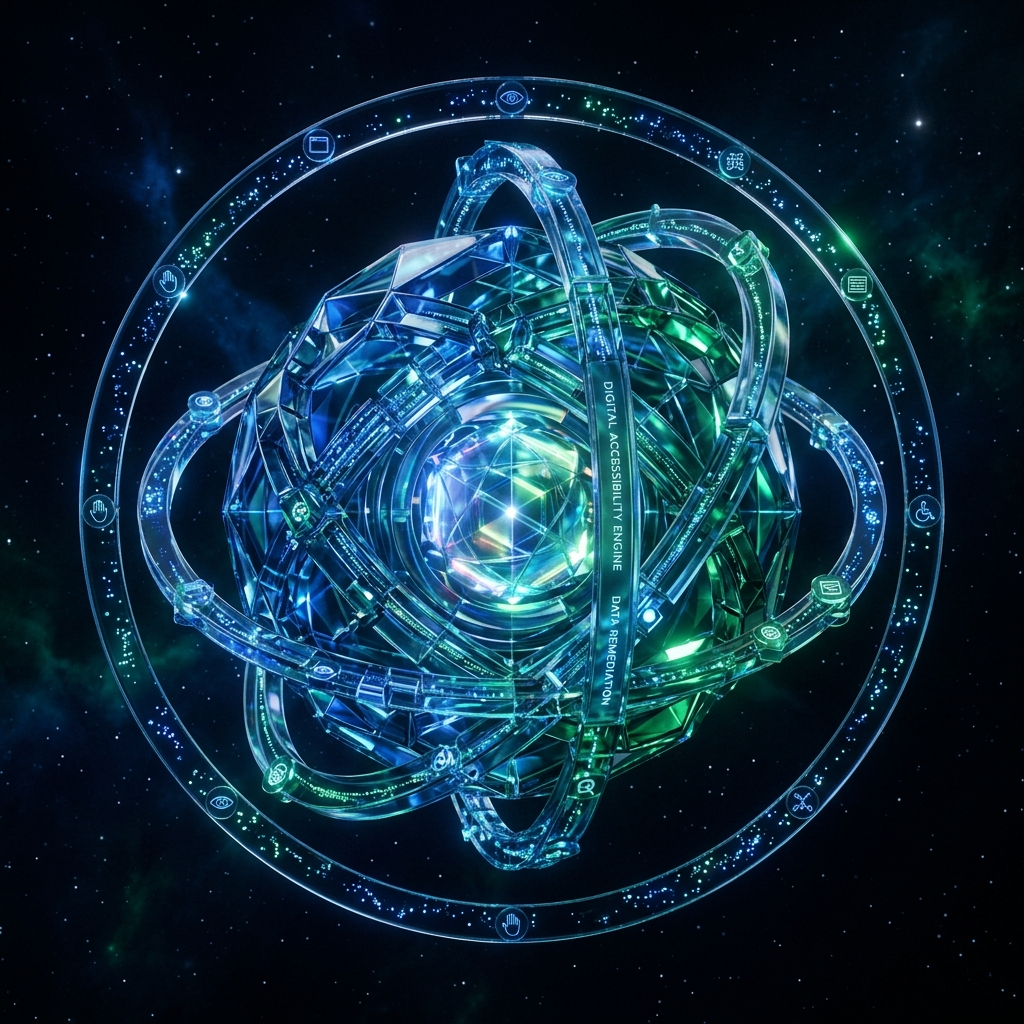
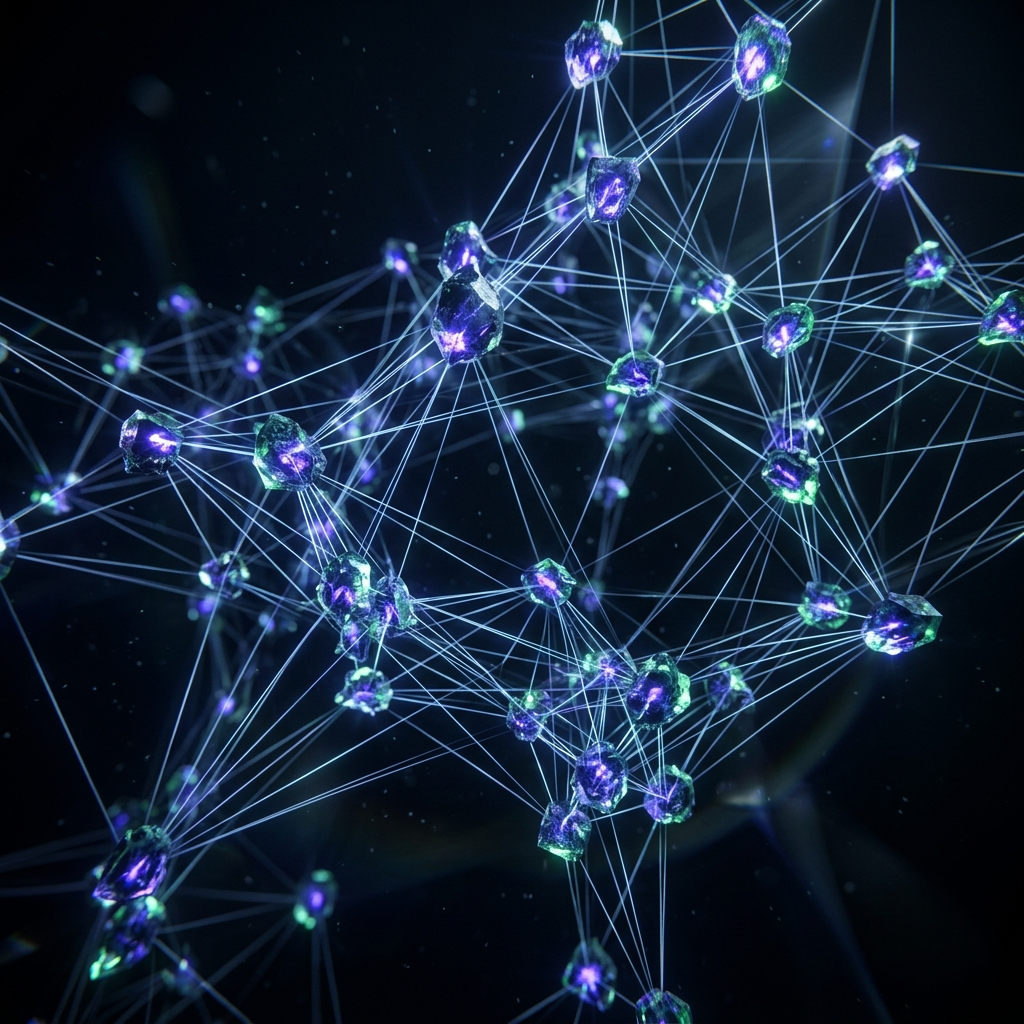
feat: implement autonomous scanner and remediation agents with supporting infrastructure and testing utilities

diff --git a/packages/agents/src/base-agent.ts b/packages/agents/src/base-agent.ts
@@ -16,10 +16,9 @@ export abstract class BaseAgent {
   protected steps: AgentStep[] = [];
   protected startTime: number = 0;
   protected tokensUsed: number = 0;
-  protected context: AgentContext;
+  protected context?: AgentContext;
 
-  constructor(context: AgentContext, onEvent?: AgentEventHandler) {
-    this.context = context;
+  constructor(onEvent?: AgentEventHandler) {
     this.onEvent = onEvent;
   }
 
@@ -75,7 +74,7 @@ export abstract class BaseAgent {
   }
 
   /**
-   * Creates a successful AgentResult.
+   * Creates a successful AgentResult and logs usage.
    * @param output The final output of the agent execution.
    * @returns A successful AgentResult.
    */
@@ -87,23 +86,60 @@ export abstract class BaseAgent {
       totalDurationMs: Date.now() - this.startTime,
       tokensUsed: this.tokensUsed,
     };
+    
+    // Fire and forget usage logging
+    this.logUsage("AGENT_EXECUTION", "success", this.tokensUsed).catch(err => {
+      console.error("[BaseAgent] Failed to log usage:", err);
+    });
+
     this.emit({ type: "plan_complete", result });
     return result;
   }
 
   /**
-   * Creates a failed AgentResult.
+   * Creates a failed AgentResult and logs usage.
    * @param err The error that caused the failure.
    * @returns A failed AgentResult.
    */
   protected createFailureResult(err: unknown): AgentResult {
-    return {
+    const error = err instanceof Error ? err.message : String(err);
+    const result: AgentResult = {
       success: false,
       steps: this.steps,
       output: null,
-      error: err instanceof Error ? err.message : String(err),
+      error,
       totalDurationMs: Date.now() - this.startTime,
       tokensUsed: this.tokensUsed,
     };
+
+    this.logUsage("AGENT_EXECUTION", "failure", this.tokensUsed).catch(logErr => {
+        console.error("[BaseAgent] Failed to log usage for error:", logErr);
+    });
+
+    return result;
+  }
+
+  /**
+   * Logs AI usage to the database for monetization and auditing.
+   */
+  protected async logUsage(purpose: string, status: string, tokens: number) {
+    if (tokens <= 0 || !this.context) return;
+
+    try {
+      await prisma.aiUsageLog.create({
+        data: {
+          organizationId: this.context.organizationId,
+          userId: (this.context.metadata?.userId as string) || null,
+          model: (this.context.metadata?.model as string) || "gpt-4o",
+          promptTokens: Math.floor(tokens * 0.4),
+          completionTokens: Math.floor(tokens * 0.6),
+          totalTokens: tokens,
+          purpose: `${purpose} (${status})`,
+          cost: tokens * 0.00001,
+        },
+      });
+    } catch (err) {
+      console.error("[BaseAgent] usage log persist failed", err);
+    }
   }
 }

diff --git a/apps/web/playwright-ct.config.ts b/apps/web/playwright-ct.config.ts
@@ -1,0 +1,28 @@
+import { defineConfig, devices } from '@playwright/experimental-ct-react';
+
+/**
+ * Playwright Component Testing Configuration
+ * This runs tests against isolated React components in a real browser.
+ */
+export default defineConfig({
+  testDir: './src', // Assumes components live in src/
+  testMatch: /.*\.spec\.tsx?/, // Matches *.spec.tsx files
+  snapshotDir: './__snapshots__',
+  timeout: 10 * 1000,
+  fullyParallel: true,
+  forbidOnly: !!process.env.CI,
+  retries: process.env.CI ? 2 : 0,
+  workers: process.env.CI ? 1 : undefined,
+  reporter: process.env.CI ? 'github' : 'list',
+  use: {
+    trace: 'on-first-retry',
+    ctPort: 3100, // Port for the local dev server hosting the components
+  },
+  projects: [
+    {
+      name: 'chromium',
+      use: { ...devices['Desktop Chrome'] },
+    },
+    // Add Firefox/Webkit here later if needed
+  ],
+});

diff --git a/packages/agents/src/remediation-agent.ts b/packages/agents/src/remediation-agent.ts
@@ -45,6 +45,7 @@ export class RemediationAgent extends BaseAgent {
   }
 
   async execute(context: AgentContext): Promise<AgentResult> {
+    this.context = context;
     this.startTime = Date.now();
 
     try {

diff --git a/packages/agents/src/reporter-agent.ts b/packages/agents/src/reporter-agent.ts
@@ -74,6 +74,7 @@ export class ReporterAgent extends BaseAgent {
   }
 
   async execute(context: AgentContext): Promise<AgentResult> {
+    this.context = context;
     this.startTime = Date.now();
 
     try {

diff --git a/packages/agents/src/scanner-agent.ts b/packages/agents/src/scanner-agent.ts
@@ -30,6 +30,7 @@ export class ScannerAgent extends BaseAgent {
   }
 
   async execute(context: AgentContext): Promise<AgentResult> {
+    this.context = context;
     this.startTime = Date.now();
 
     try {

diff --git a/apps/web/index.tsx b/apps/web/index.tsx
@@ -1,0 +1,6 @@
+/**
+ * Playwright Component Testing entry point.
+ * Import your global styles here so components render with Tailwind!
+ */
+
+// import '../src/app/globals.css';

diff --git a/apps/web/index.html b/apps/web/index.html
@@ -1,0 +1,7 @@
+<!DOCTYPE html>
+<html lang="en">
+  <body>
+    <div id="root"></div>
+    <script type="module" src="./index.tsx"></script>
+  </body>
+</html>
